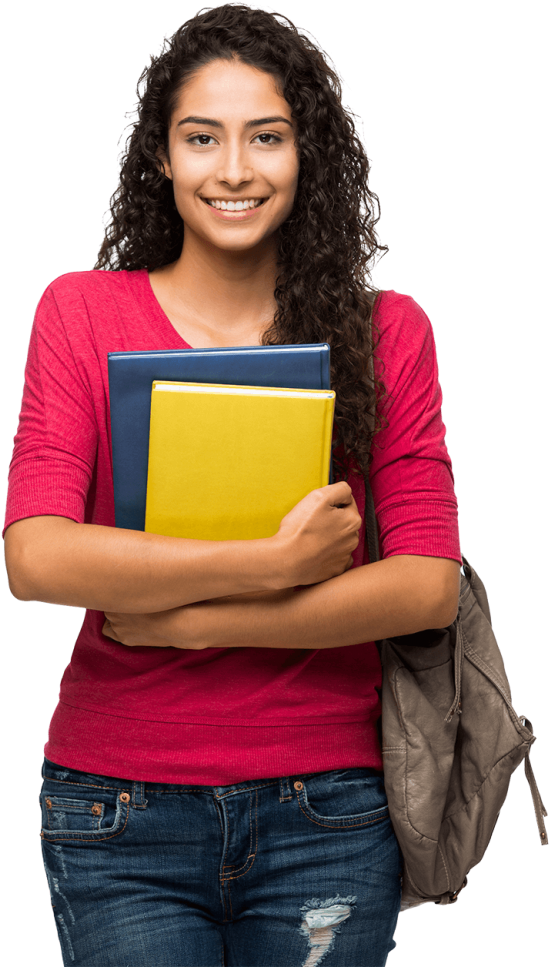
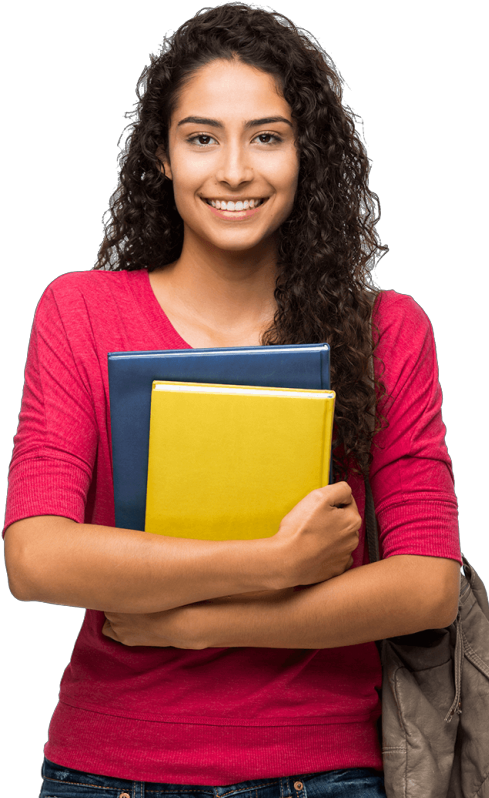
feat: image curve

diff --git a/css/index.css b/css/index.css
@@ -108,20 +108,34 @@ nav{
     flex: 0.9;
     margin-left: 40px;
     /* height: 100%; */
-    background-color:black;
+    /* background-color:black; */
     position: relative;
 }
 .hero-section__back-circle{
     position: absolute;
     z-index: 1;
-    bottom: 0;
-    right: 20px;
+    bottom: -120px;
+    right: 10px;
     margin: auto;
     background-color: #ff4d4d;
-    height: 80%;
-    width: 95%;
+    height: 99%;
+    width: 97%;
     background-repeat: no-repeat;
     border-radius: 60%;
+}
+.hero-section__image-hidder{
+    position: absolute;
+    z-index: 3;
+    bottom: -285px;
+    right: 30px;
+    margin: auto;
+    background-color: transparent;
+    height: 89%;
+    width: 91%;
+    background-repeat: no-repeat;
+    border-radius: 50%;
+    border-top: 200px solid white;
+    transform: rotate(180deg);
 }
 .hero-section__student{
     position: absolute;

diff --git a/index.html b/index.html
@@ -4,7 +4,7 @@
 <head>
     <meta charset="UTF-8" />
     <meta name="viewport" content="width=device-width, initial-scale=1.0" />
-    <!-- <meta http-equiv="refresh" content="3" /> -->
+    <meta http-equiv="refresh" content="3" />
 
     <link rel="preconnect" href="https://fonts.googleapis.com">
     <link rel="preconnect" href="https://fonts.gstatic.com" crossorigin>
@@ -49,6 +49,7 @@
             <div class="hero-section__back-circle">
 
             </div>
+            <div class="hero-section__image-hidder"></div>
             <div class="hero-section__student"></div>
             <div class="hero-section__datacard"></div>
             <div class="hero-section__free-courses"></div>
